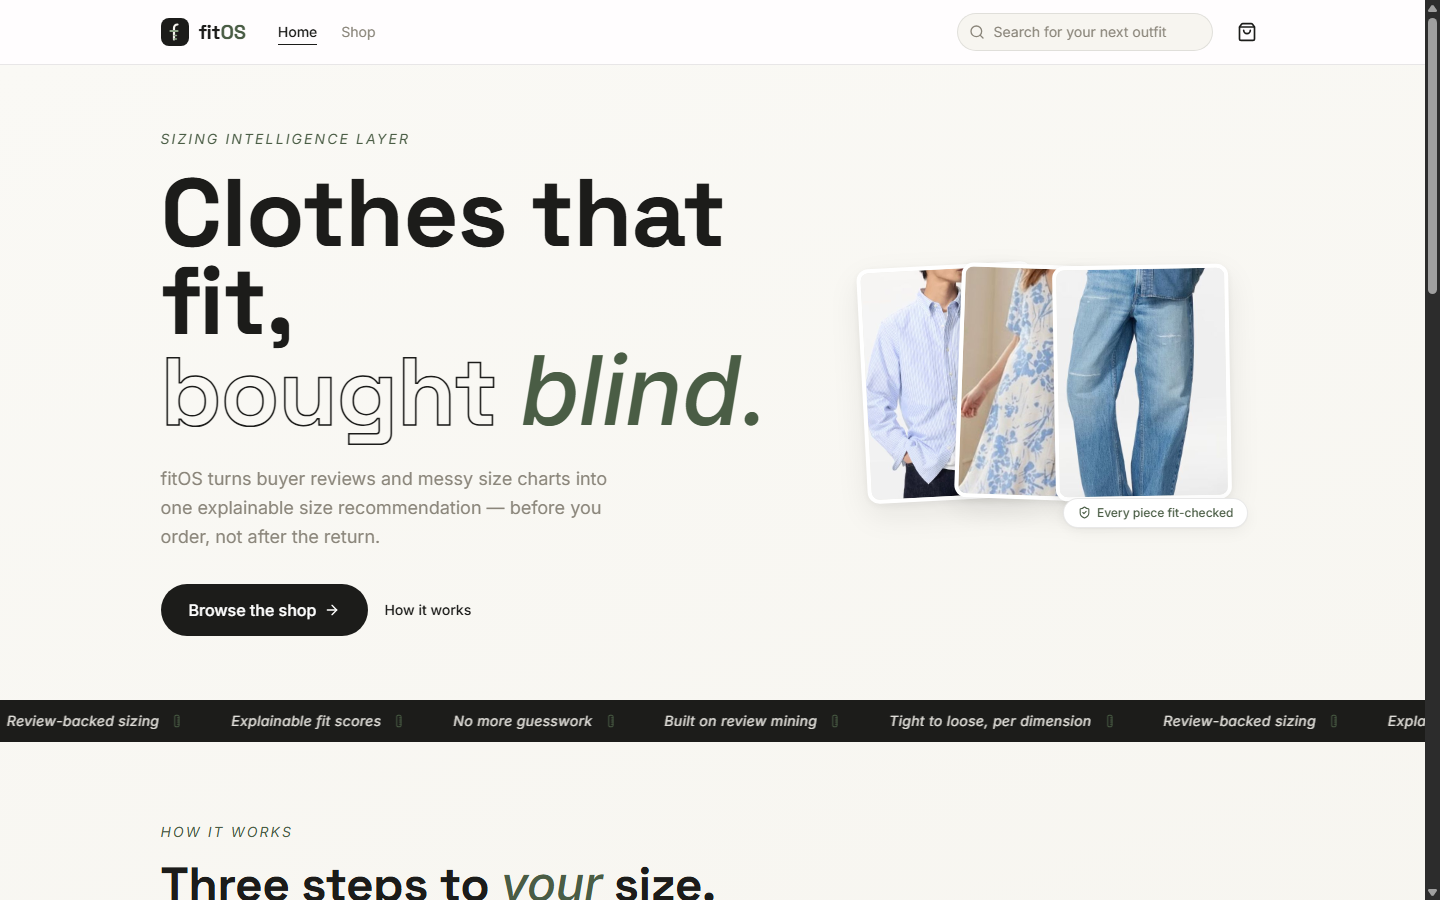
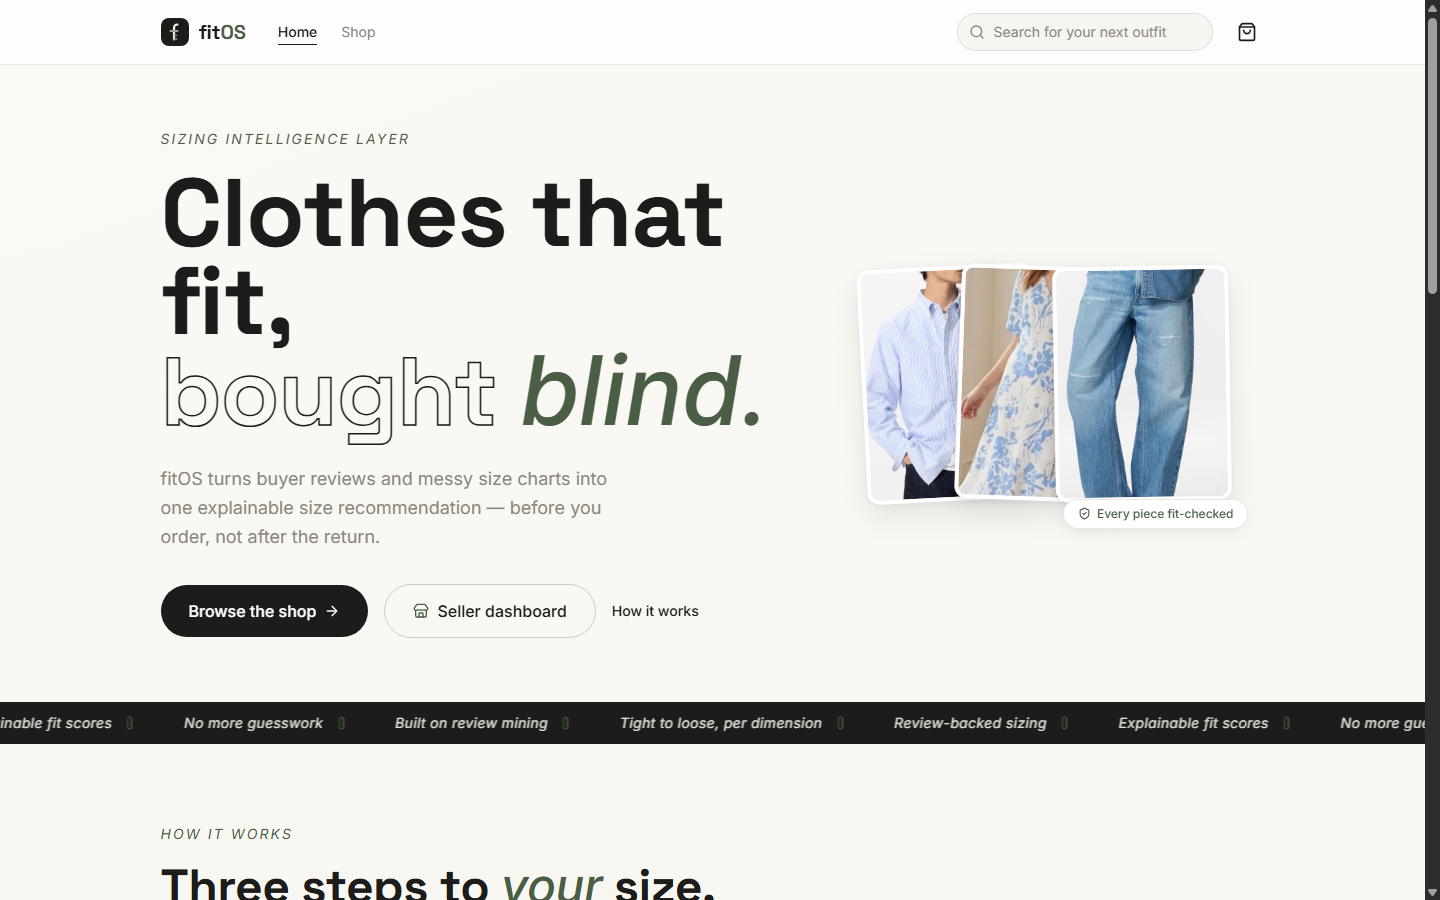
feat: add seller dashboard button to the landing hero
The seller studio was only reachable by typing /seller; give it a visible
entry point next to the shop CTA so judges and demo viewers can find the
B2B side. Refreshes the landing screenshot.

diff --git a/frontend/src/pages/Landing.jsx b/frontend/src/pages/Landing.jsx
@@ -6,6 +6,7 @@ import {
   BadgeCheck,
   ShieldCheck,
   Star,
+  Store,
 } from 'lucide-react'
 import Marquee from '../components/Marquee'
 
@@ -67,6 +68,13 @@ export default function Landing() {
               >
                 Browse the shop
                 <ArrowRight size={16} className="transition-transform group-hover:translate-x-1" />
+              </Link>
+              <Link
+                to="/seller"
+                className="inline-flex items-center gap-2 border border-ink/20 text-ink px-7 py-3.5 rounded-full font-medium hover:border-ink transition-colors duration-300"
+              >
+                <Store size={16} className="text-accent" />
+                Seller dashboard
               </Link>
               <a
                 href="#how-it-works"
